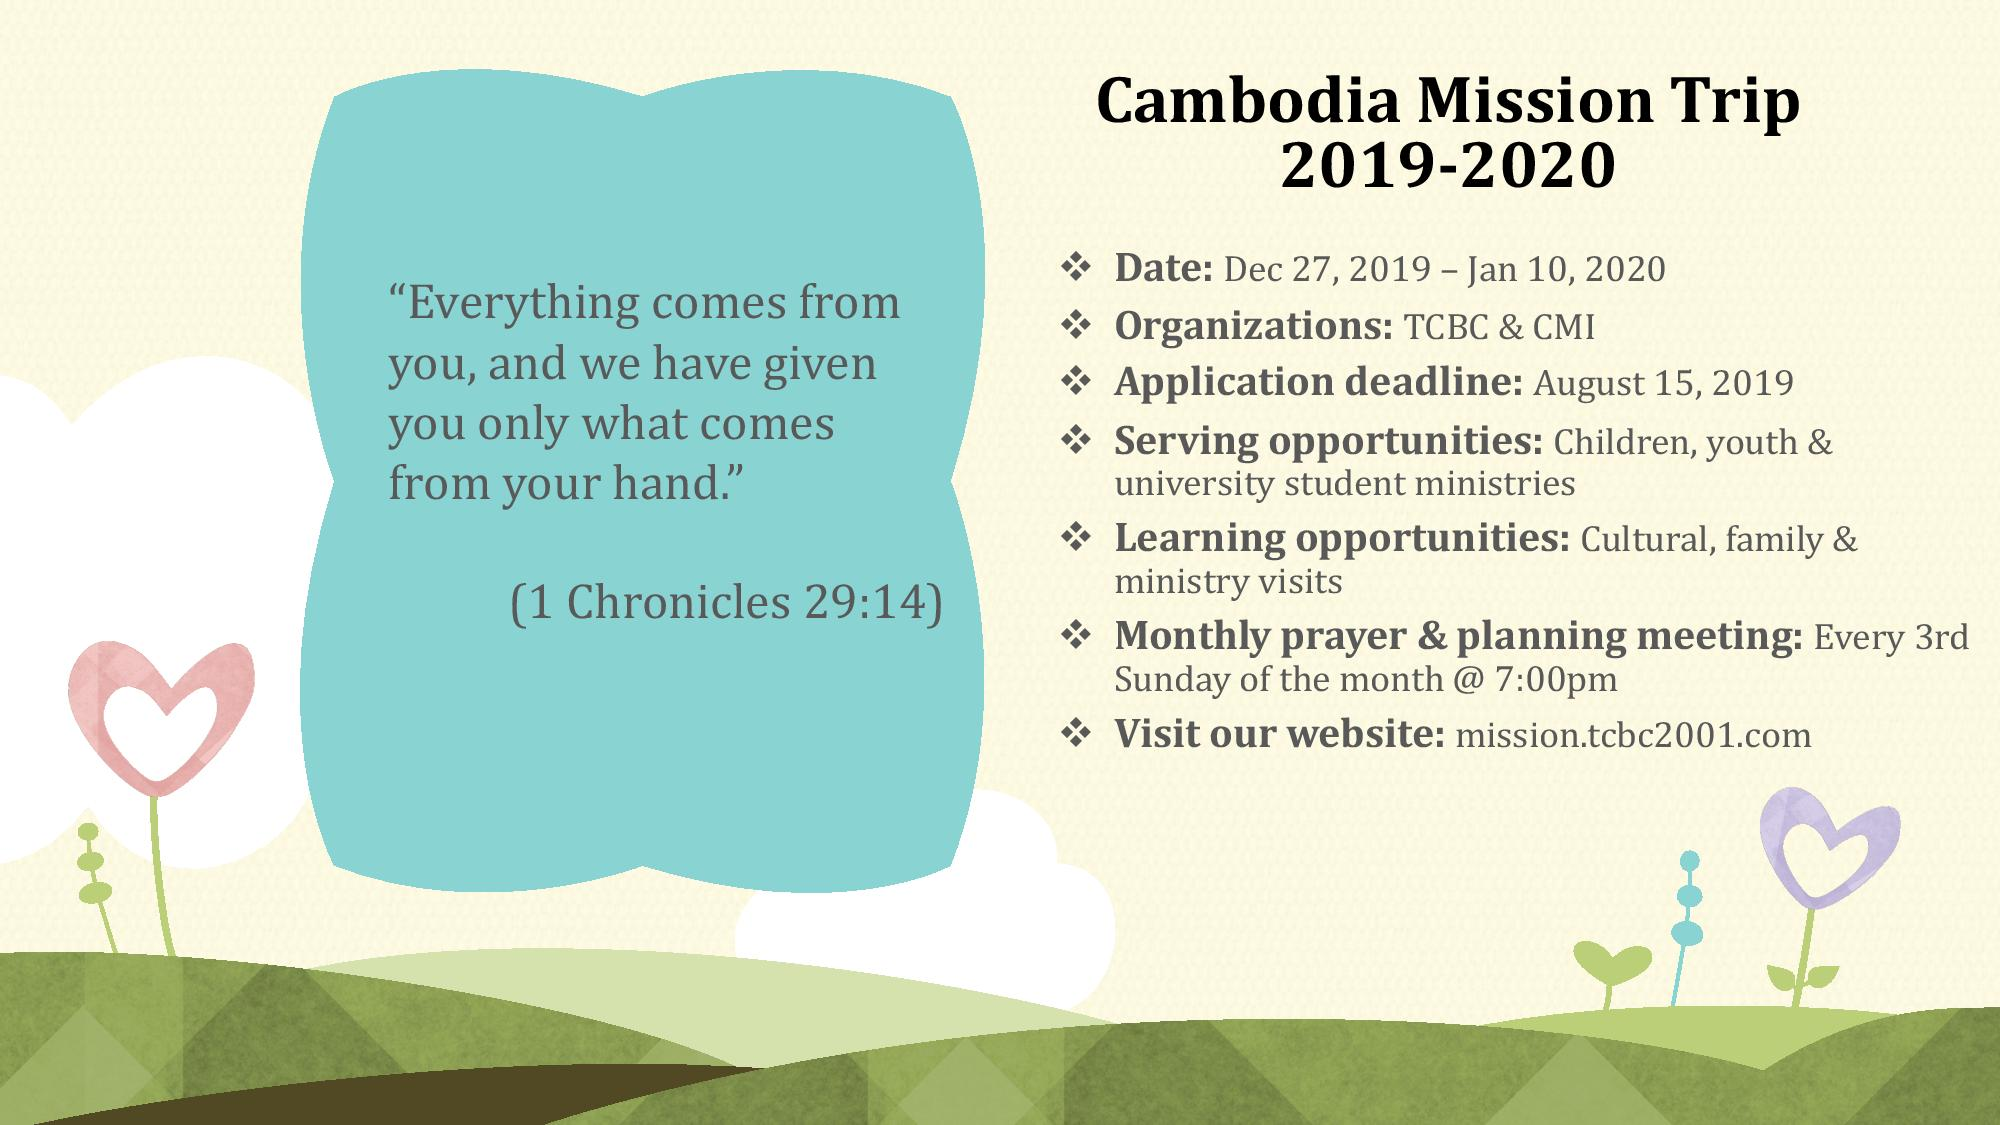
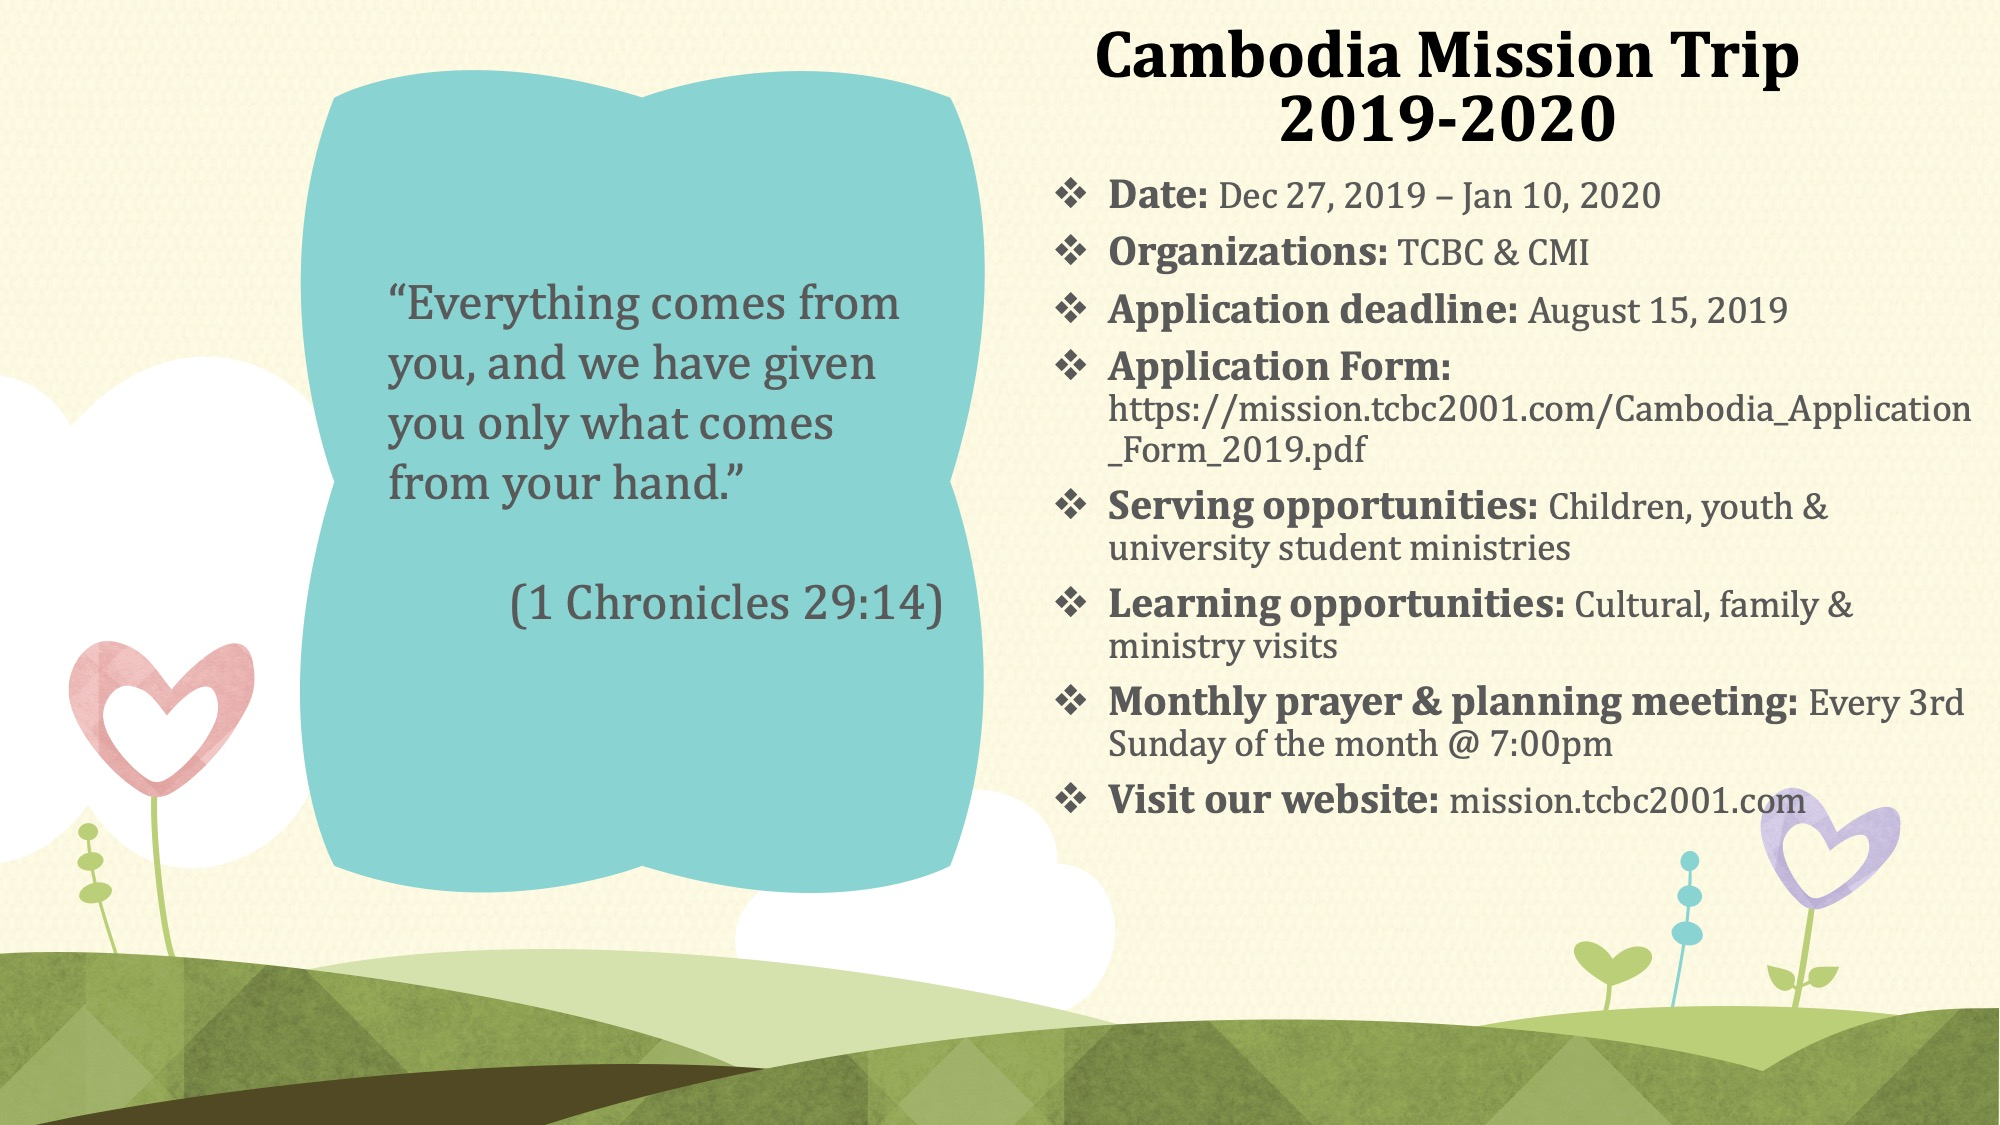
update application form

diff --git a/_posts/2019-07-08-we-have-started-planning-for-2019-2020-mission-trip.md b/_posts/2019-07-08-we-have-started-planning-for-2019-2020-mission-trip.md
@@ -7,6 +7,6 @@ date: 2019-07-08 00:00:00
 
 We have started planning for our 2019-2020 trip, and are excited about the upcoming trip! Please download application form below to join us this year!
 
-[Download Application Form](/download/Cambodia_Application_Form_2019.pdf)
+[Download Application Form](/Cambodia_Application_Form_2019.pdf)
 
 ![Grass]({{ site.url }}/images/cambodia_postcard-001.jpg)
